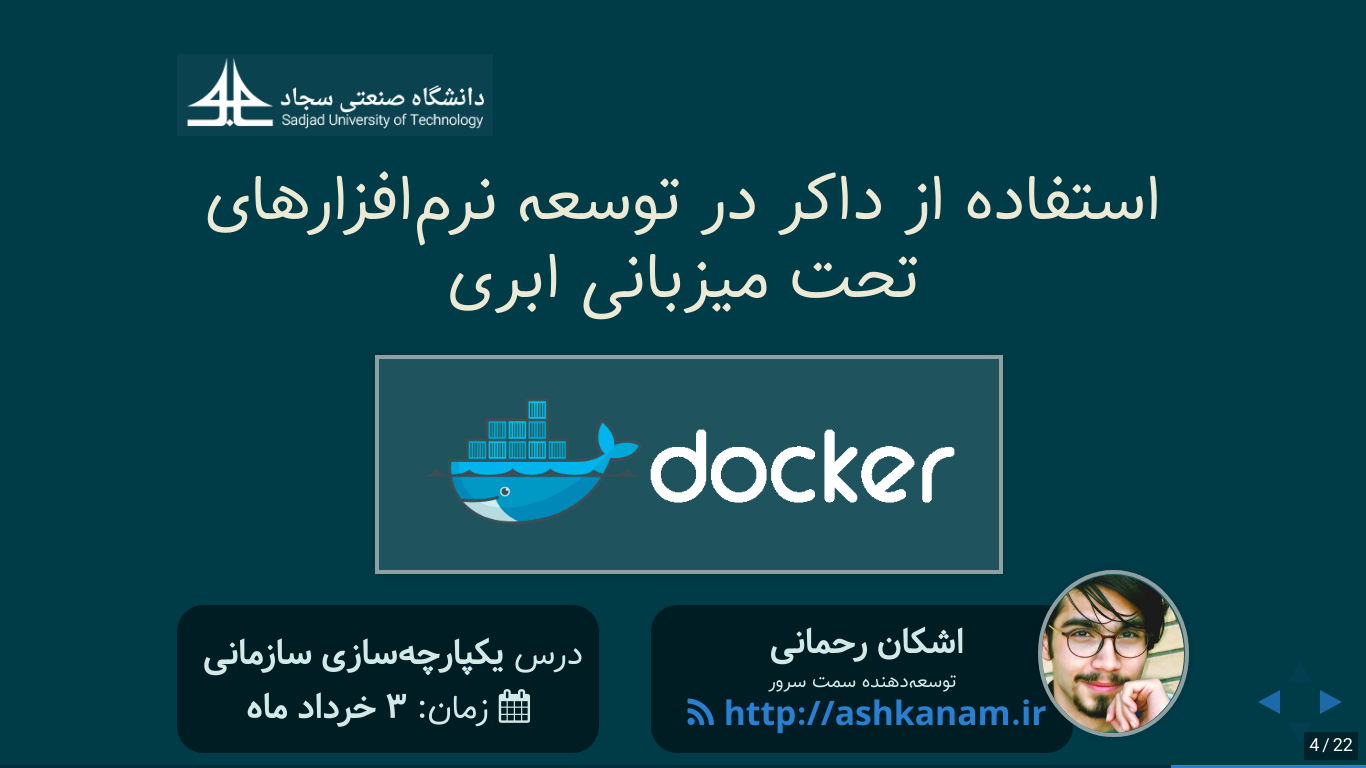
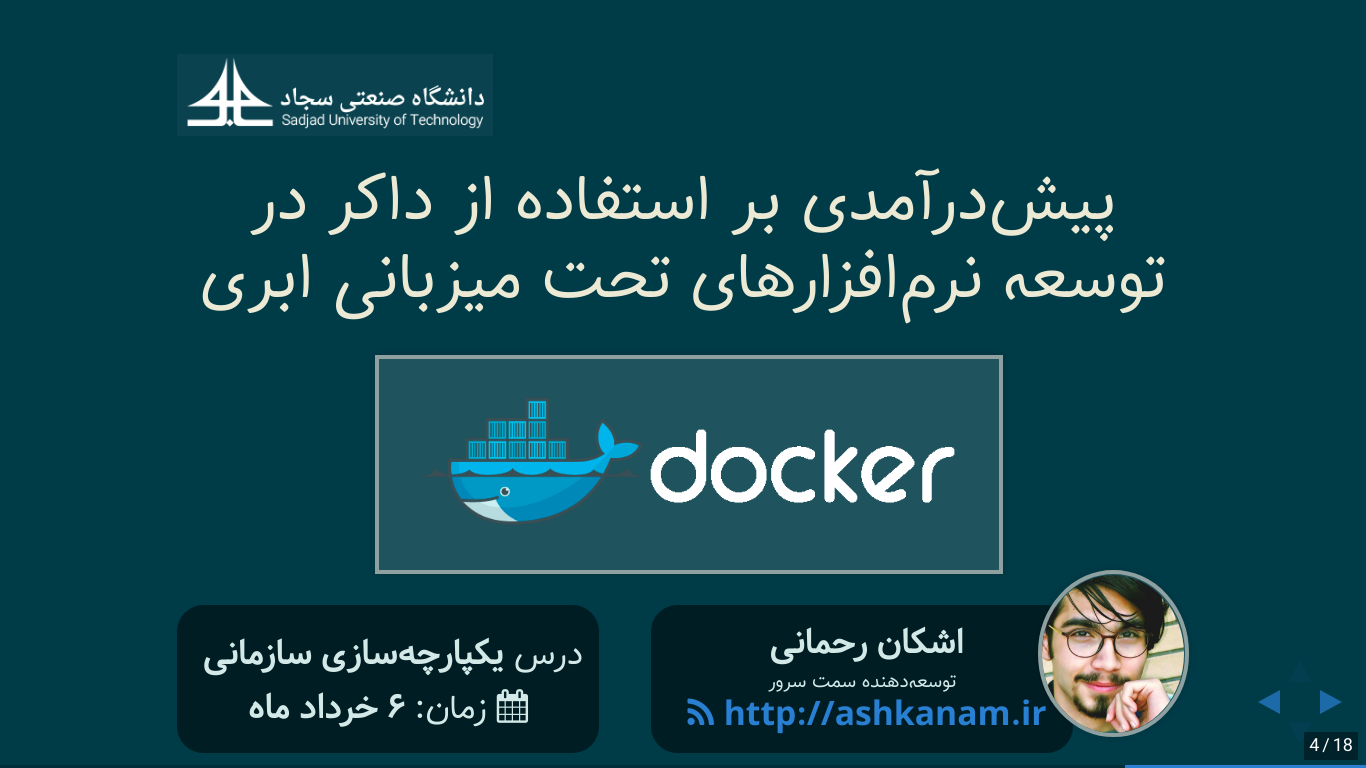
Fix readme

diff --git a/index.html b/index.html
@@ -95,7 +95,7 @@
 						<br>
 						<font size="6">
 							<i class="fa fa-calendar"></i> زمان:
-							<b>۳ خرداد ماه</b>
+							<b>۶ خرداد ماه</b>
 						</font>
 					</p>
 				</div>
